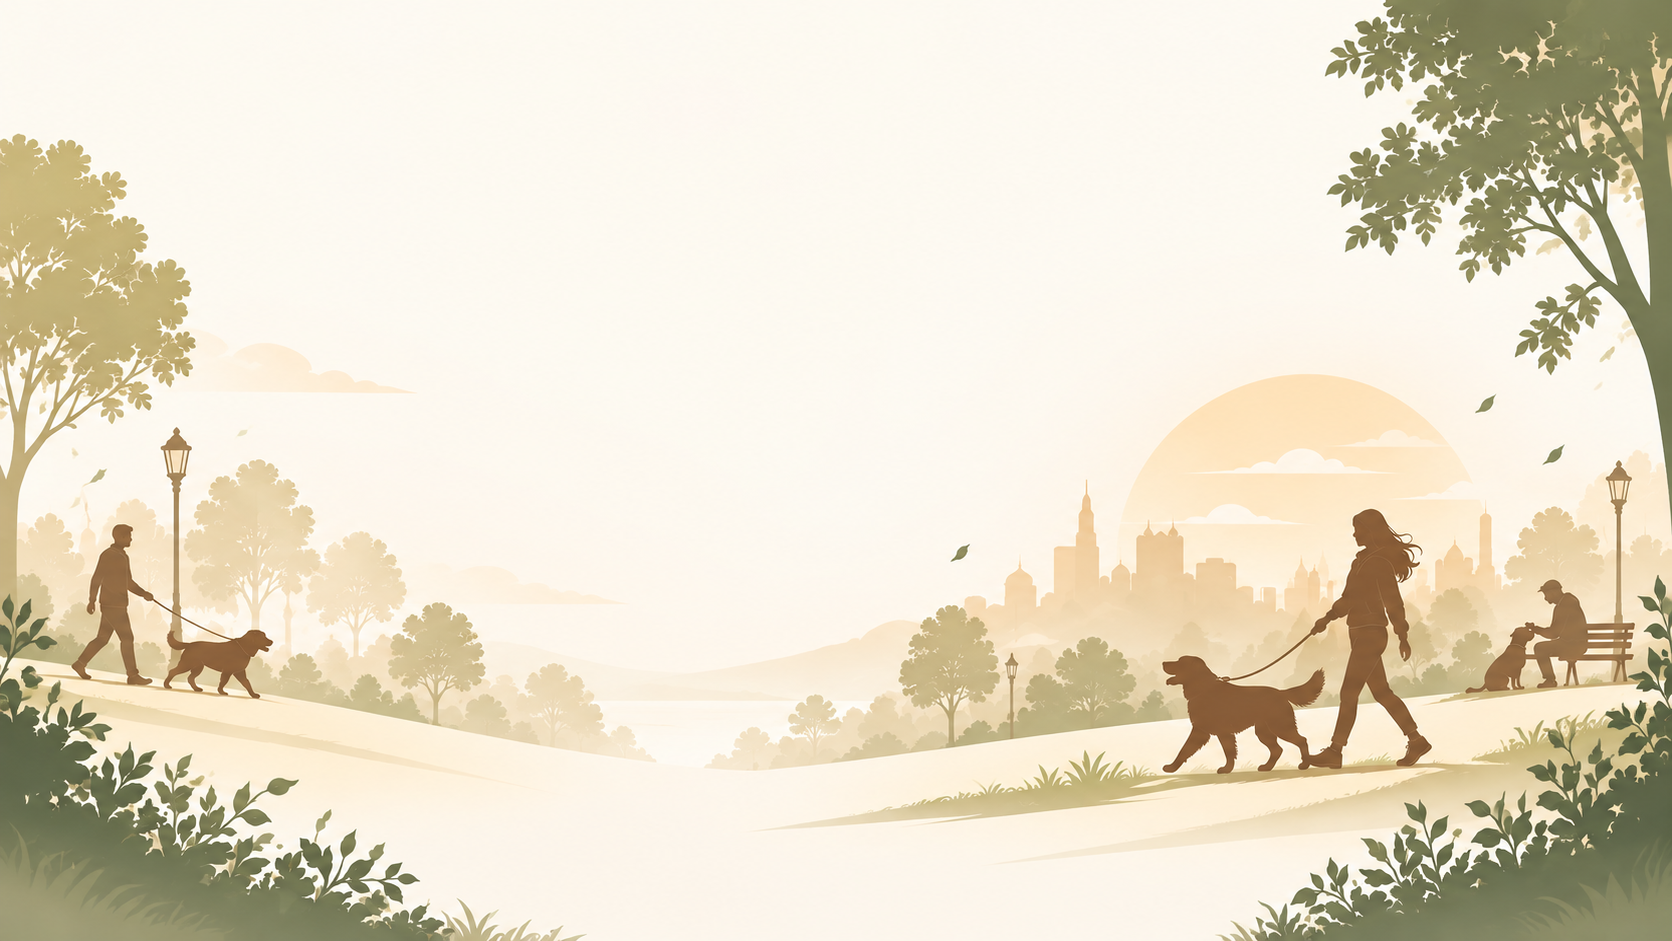
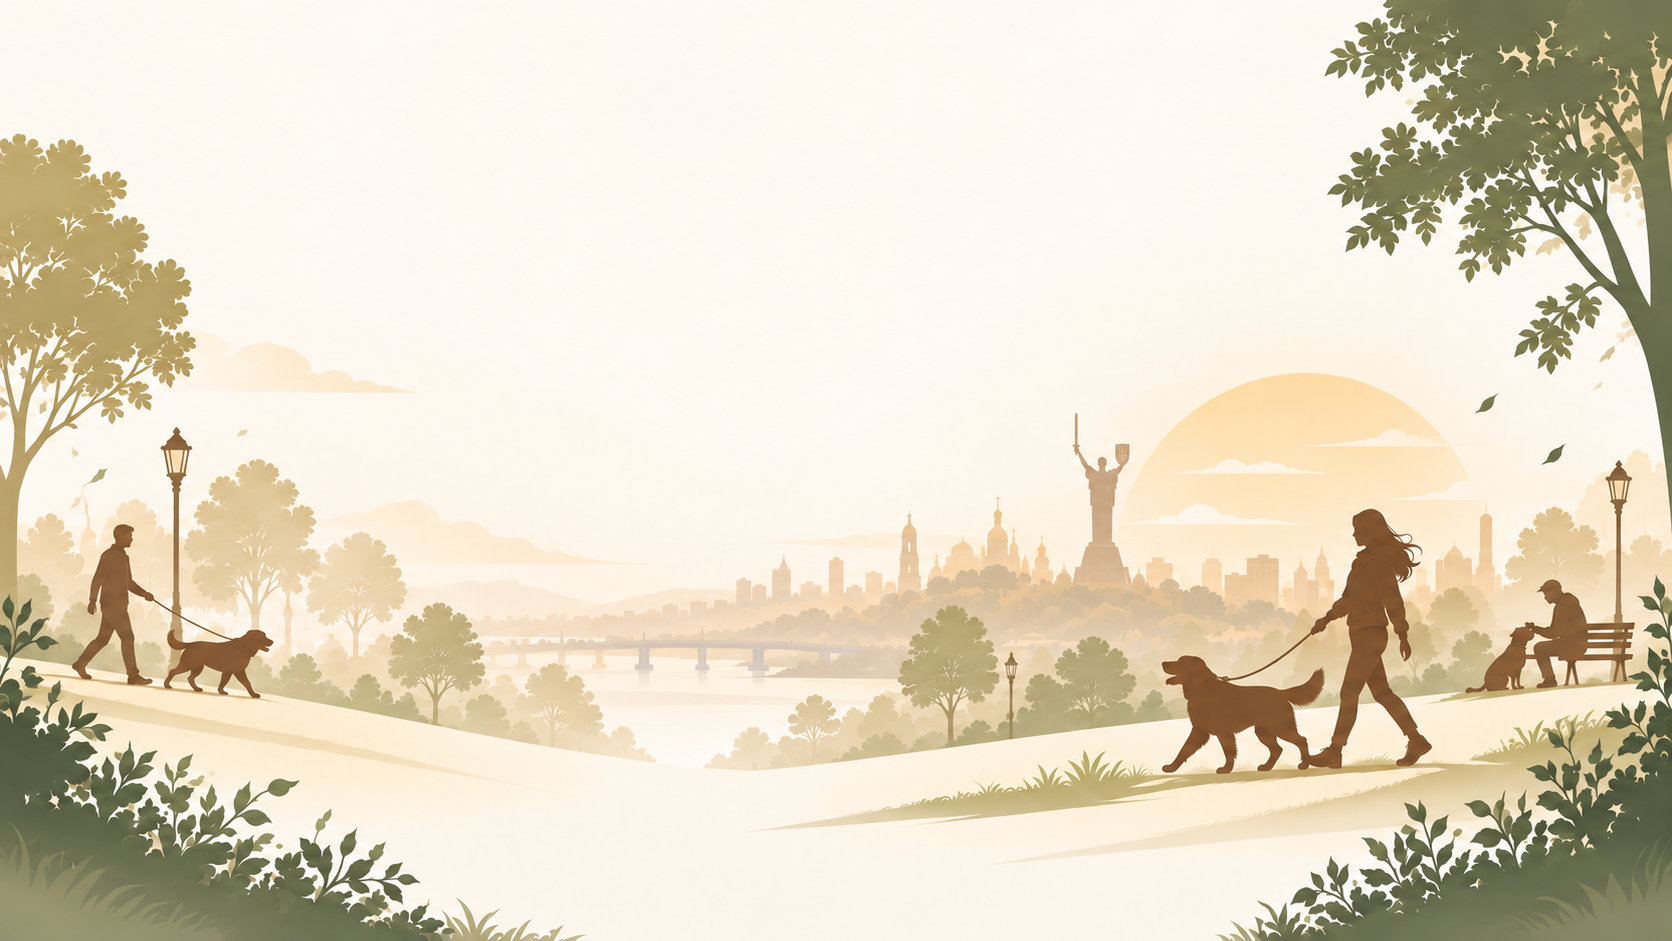
style(home): update Kyiv park background and overlay opacity

diff --git a/src/widgets/home/home-hero.css b/src/widgets/home/home-hero.css
@@ -32,7 +32,7 @@ body:has(> .home-shell) > .site-header.site-header {
   content: "";
   position: absolute;
   inset: 0;
-  background: linear-gradient(90deg, #faf7f2f2, #faf7f2df 60%, #faf7f2a6);
+  background: linear-gradient(90deg, #faf7f263, #faf7f25a 60%, #faf7f265);
 }
 .home-park-scenery {
   object-fit: cover;
